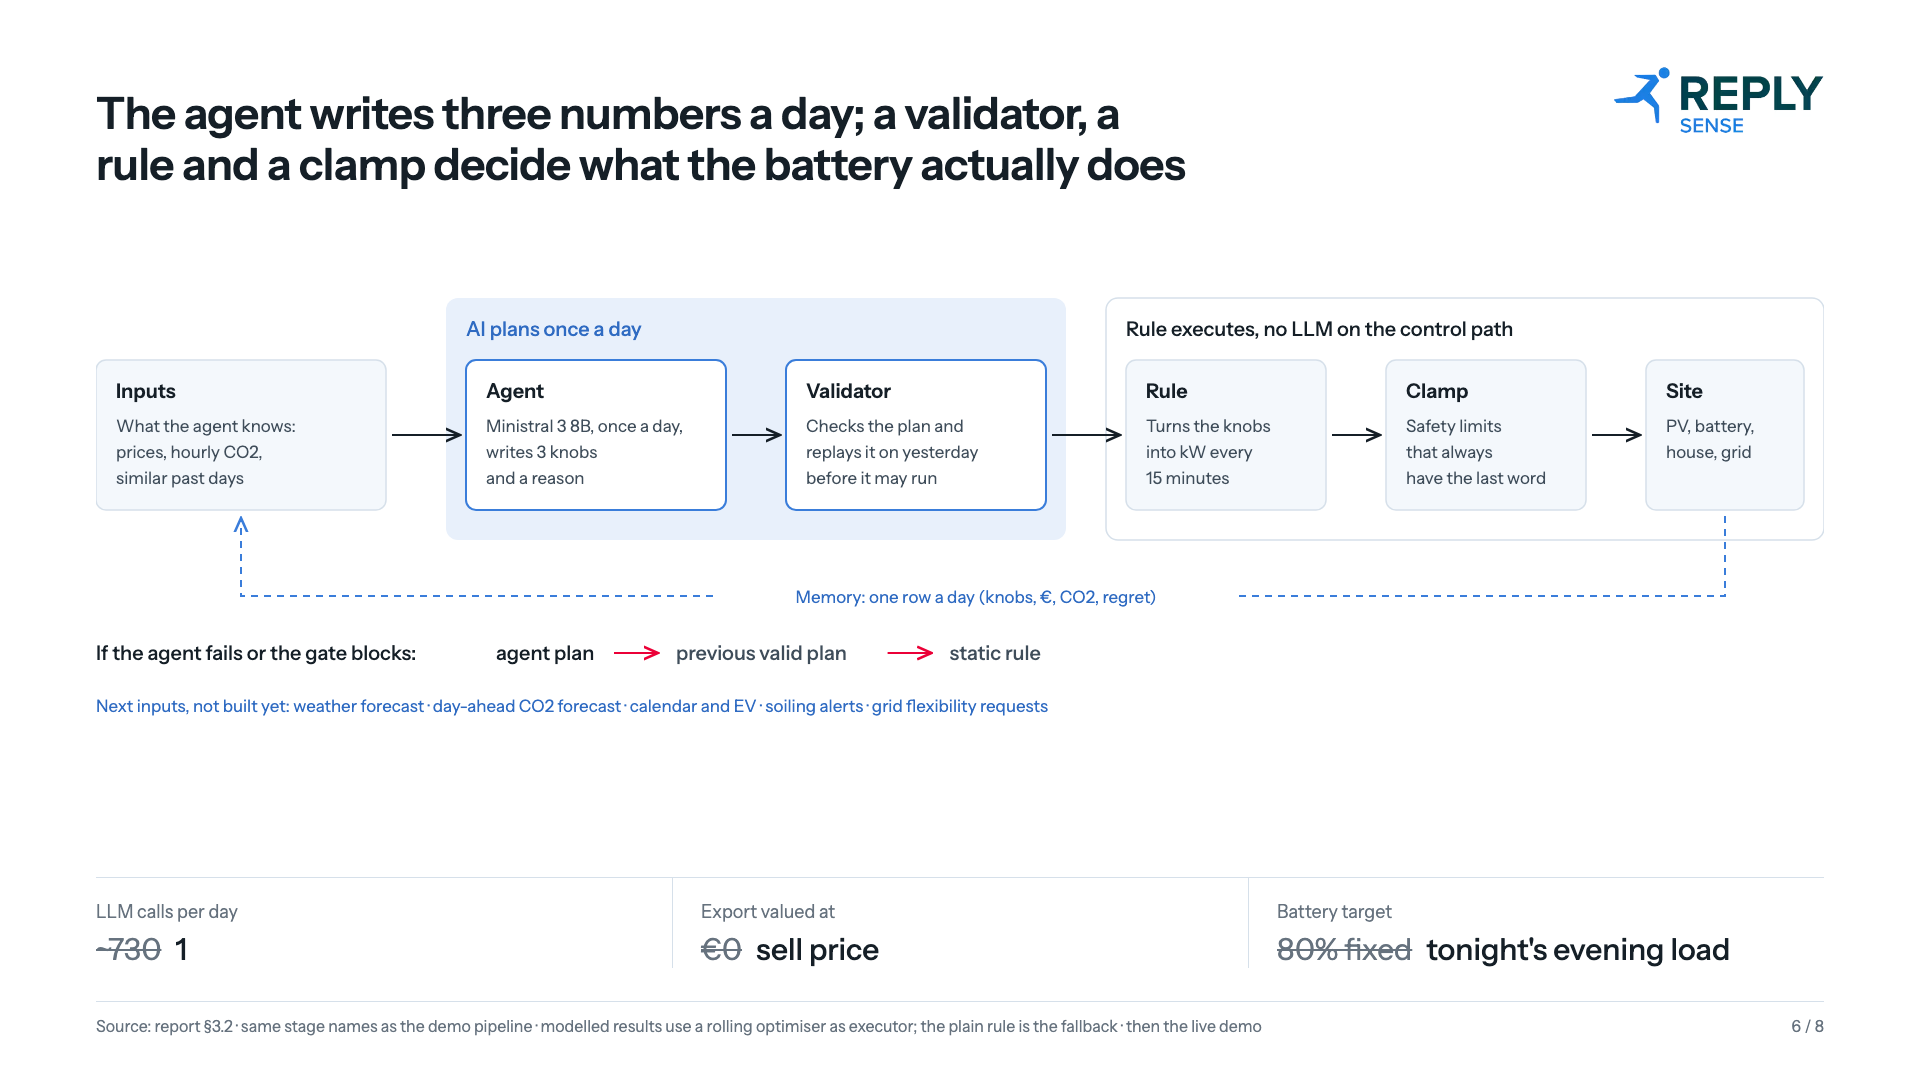
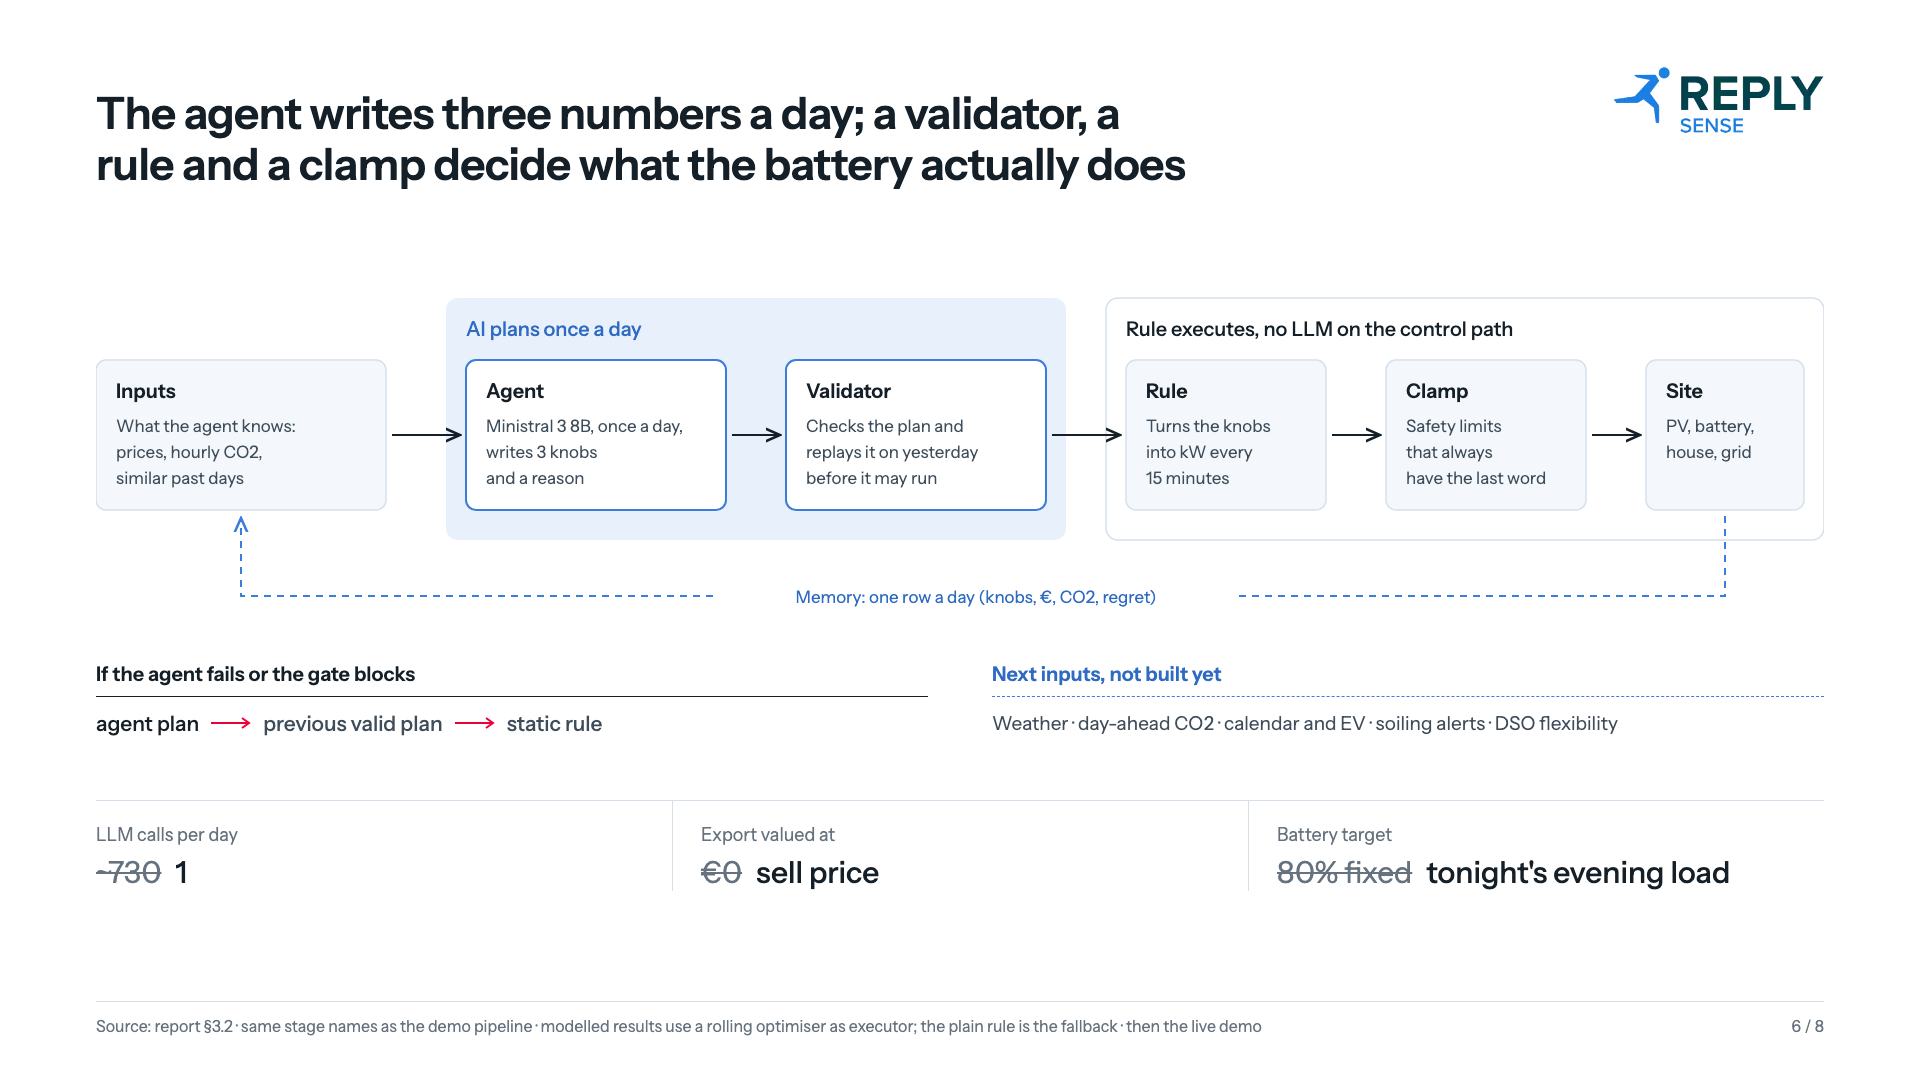
deck: slide 6 second level split into fallback (left) and next inputs (right), even spacing to the strip

diff --git a/docs/deck/deck.html b/docs/deck/deck.html
@@ -261,11 +261,13 @@ const S={
   el(g,'path',{d:`M1629,${ny+nh+6} V${ny+nh+86} H145 V${ny+nh+8}`,fill:'none',stroke:ag,'stroke-width':2,'stroke-dasharray':'7 6','marker-end':'url(#am)'});
   el(g,'rect',{x:620,y:ny+nh+70,width:520,height:34,fill:bg});
   el(g,'text',{x:880,y:ny+nh+93,'text-anchor':'middle',class:'sub',style:`fill:${css('--agent-text')}`},'Memory: one row a day (knobs, €, CO2, regret)');
-  const fy=ny+nh+150;el(g,'text',{x:0,y:fy,class:'lbl'},'If the agent fails or the gate blocks:');
-  let fx=400;['agent plan','previous valid plan','static rule'].forEach((f,i)=>{el(g,'text',{x:fx,y:fy,class:'lbl',style:i?`fill:${css('--ink2')}`:''},f);
-    const w=f.length*10.4;if(i<2)el(g,'line',{x1:fx+w+14,y1:fy-7,x2:fx+w+58,y2:fy-7,stroke:al,'stroke-width':2,'marker-end':'url(#af)'});fx+=w+76});
-  el(g,'text',{x:0,y:fy+52,class:'sub',style:`fill:${css('--agent-text')}`},'Next inputs, not built yet: weather forecast · day-ahead CO2 forecast · calendar and EV · soiling alerts · grid flexibility requests');
-  M.insertAdjacentHTML('beforeend',`<div style="position:absolute;left:0;right:0;bottom:0;display:grid;grid-template-columns:repeat(3,1fr);border-top:1px solid var(--line)">
+  const ra=`<svg width="44" height="14" style="margin:0 10px;vertical-align:1px"><path d="M2 7H40M33 2l7 5-7 5" fill="none" stroke="${al}" stroke-width="2"/></svg>`;
+  M.insertAdjacentHTML('beforeend',`<div class="cols" style="position:absolute;left:0;right:0;top:372px;grid-template-columns:1fr 1fr;gap:64px">
+    <div><div class="colhead" style="font-size:20px;margin-bottom:14px;padding-bottom:10px">If the agent fails or the gate blocks</div>
+      <div style="font:500 21px IS">agent plan${ra}<span style="color:var(--ink2)">previous valid plan</span>${ra}<span style="color:var(--ink2)">static rule</span></div></div>
+    <div><div class="colhead" style="font-size:20px;margin-bottom:14px;padding-bottom:10px;border-bottom-style:dashed;color:var(--agent-text);border-color:var(--agent)">Next inputs, not built yet</div>
+      <div style="font-size:19px;color:var(--ink2)">Weather · day-ahead CO2 · calendar and EV · soiling alerts · DSO flexibility</div></div></div>`);
+  M.insertAdjacentHTML('beforeend',`<div style="position:absolute;left:0;right:0;top:510px;display:grid;grid-template-columns:repeat(3,1fr);border-top:1px solid var(--line)">
     ${[['LLM calls per day','~730','1'],['Export valued at','€0','sell price'],['Battery target','80% fixed',"tonight's evening load"]].map((c,i)=>`
     <div style="padding:22px 28px 0 ${i?28:0}px;${i?'border-left:1px solid var(--line)':''}"><div class="k">${c[0]}</div>
     <div style="font:500 30px IS;margin-top:6px"><s style="color:var(--mute);font-weight:400;text-decoration-thickness:2px;margin-right:14px">${c[1]}</s>${c[2]}</div></div>`).join('')}</div>`);
